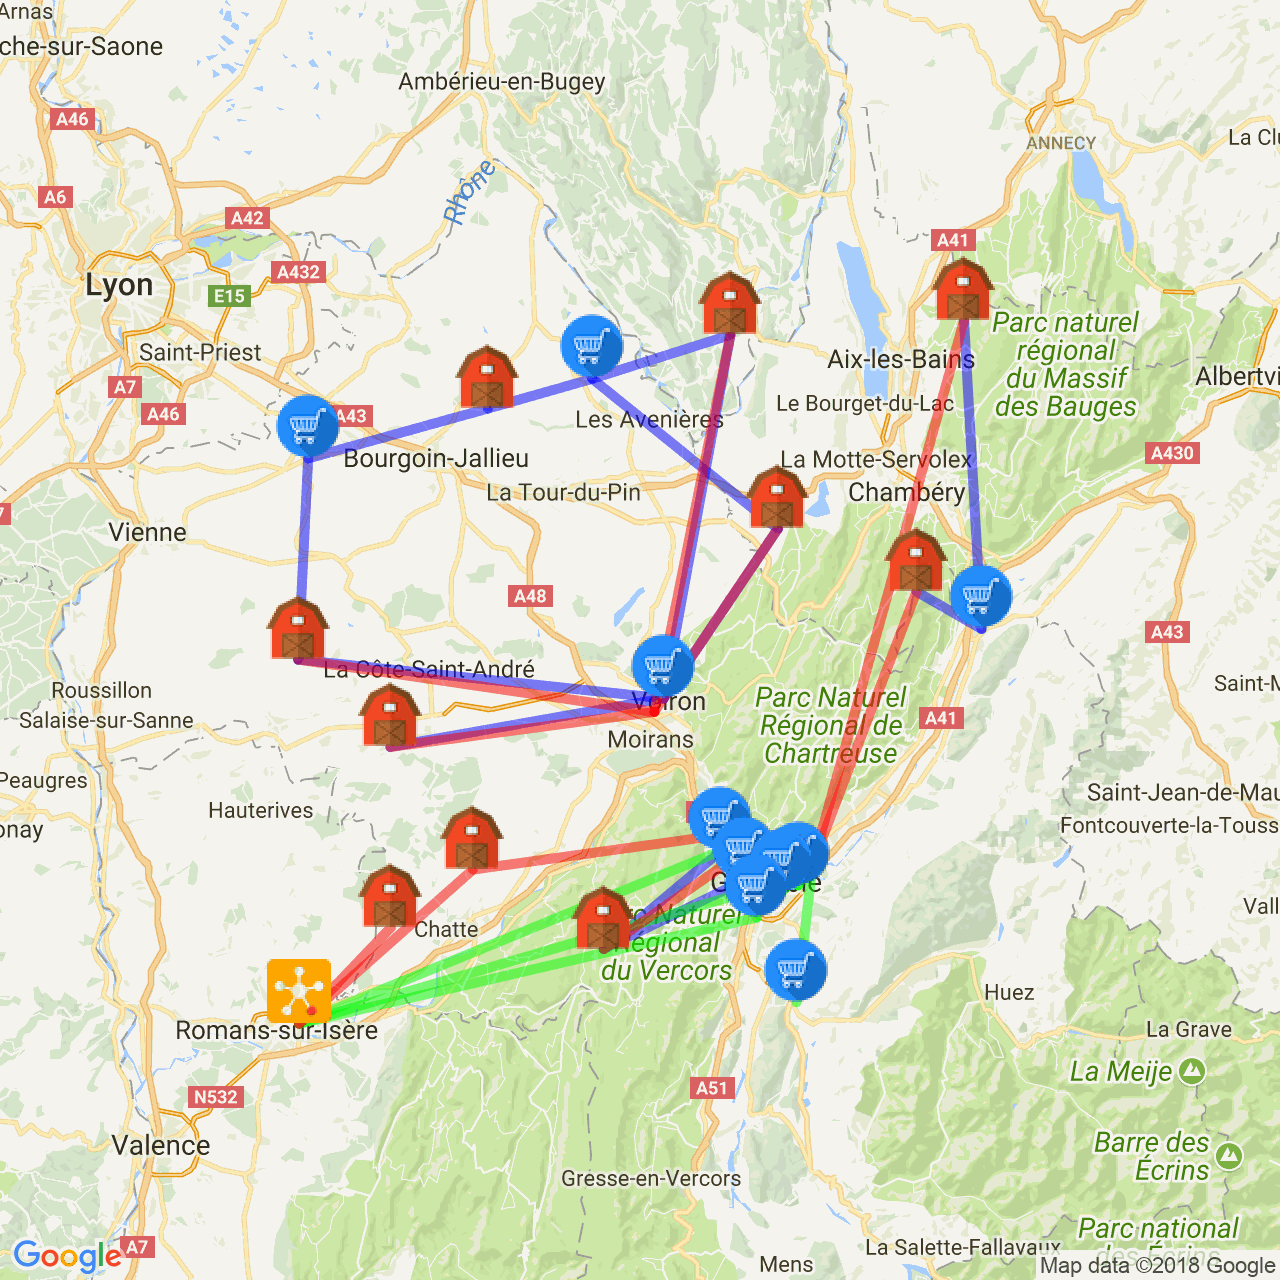
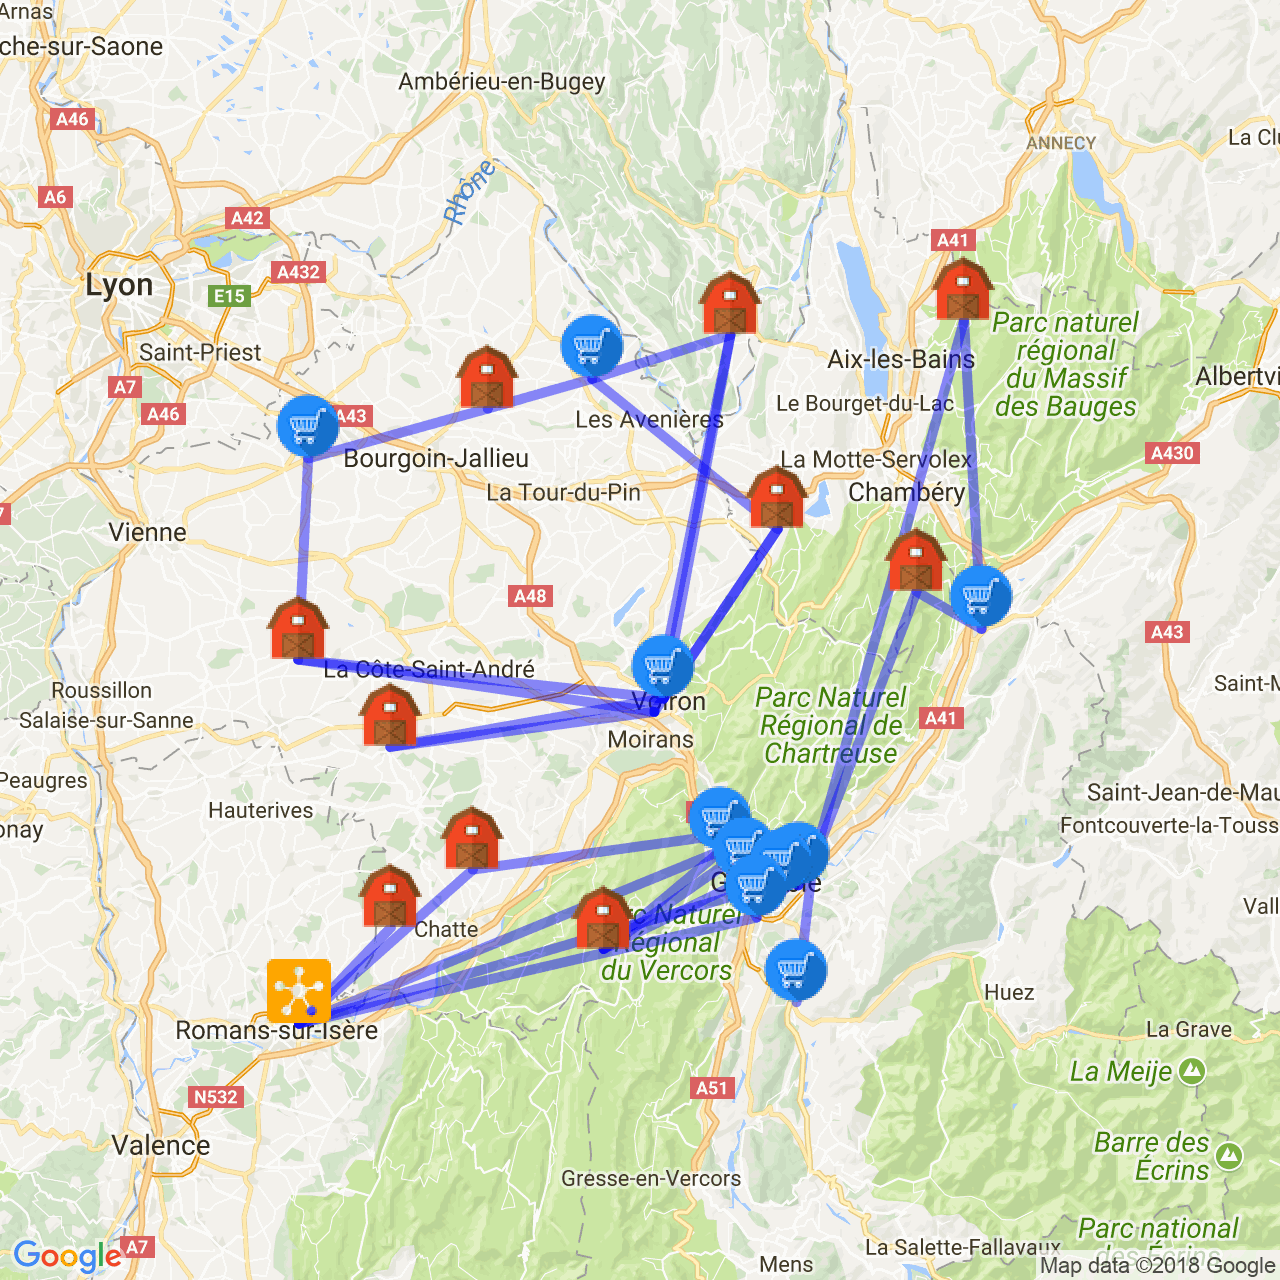
NewDisplay

diff --git a/src/MainTest.java b/src/MainTest.java
@@ -247,23 +247,19 @@ public class MainTest {
         //Ajout des producteurs
         String mapString = "";
         for (int i = 1; i < producers.length; i++) {
-            mapString += "&markers=color:blue%7Clabel:" + i + "%7C" + Double.toString(producers[i].getLongitude()) + "," + Double.toString(producers[i].getLatitude());
+            mapString += "&markers=icon:http://pierret.pro/F.png|" + Double.toString(producers[i].getLongitude()) + "," + Double.toString(producers[i].getLatitude());
         }
         for (int i = 1; i < customers.length; i++) {
-            mapString += "&markers=color:yellow%7Clabel:" + i + "%7C" + Double.toString(customers[i].getLongitude()) + "," + Double.toString(customers[i].getLatitude());
+            mapString += "&markers=icon:http://pierret.pro/C.png|" + Double.toString(customers[i].getLongitude()) + "," + Double.toString(customers[i].getLatitude());
         }
         for (int i = 0; i < chosenHubs.size(); i++) {
-            mapString += "&markers=color:red%7Clabel:" + i + "%7C" + Double.toString(hubs[chosenHubs.get(i)].getLongitude()) + "," + Double.toString(hubs[chosenHubs.get(i)].getLatitude());
+            mapString += "&markers=icon:http://pierret.pro/H.png|" + Double.toString(hubs[chosenHubs.get(i)].getLongitude()) + "," + Double.toString(hubs[chosenHubs.get(i)].getLatitude());
         }
 
         try {
             String latitude = "45.1934574";
             String longitude = "5.7682659";
-            String imageUrl = "https://maps.googleapis.com/maps/api/staticmap?center="
-                    + latitude
-                    + ","
-                    + longitude
-                    + "&zoom=9&size=1024x1024&scale=2&maptype=roadmap"
+            String imageUrl = "https://maps.googleapis.com/maps/api/staticmap?size=4096x4096&scale=2&maptype=roadmap"
                     + mapString
                     + linkTwoPoints(sumMatrix("yPC"), "yPC", "0000ff")
                     + linkTwoPoints(sumMatrix("yHC"), "yHC", "00ff00")
@@ -382,13 +378,13 @@ public class MainTest {
         for (int i = 0; i < matrix.length; i++) {
             for (int j = 0; j < matrix[i].length; j++) {
                 if (matrixType.equals("yPC") && !producers[i].getName().equals("Fiction") && !customers[j].getName().equals("Fiction") && matrix[i][j]!=0) {
-                        result += "&path=color:0x" + hexaColor + "%7Cweight:5%7C" + Double.toString(producers[i].getLongitude()) + "," + Double.toString(producers[i].getLatitude()) + "%7C" + Double.toString(customers[j].getLongitude()) + "," + Double.toString(customers[j].getLatitude());
+                        result += "&path=" + Double.toString(producers[i].getLongitude()) + "," + Double.toString(producers[i].getLatitude()) + "|" + Double.toString(customers[j].getLongitude()) + "," + Double.toString(customers[j].getLatitude());
                 }
                 if (matrixType.equals("yHC") && !customers[i].getName().equals("Fiction") && matrix[i][j]!=0) {
-                        result += "&path=color:0x" + hexaColor + "%7Cweight:5%7C" + Double.toString(hubs[i+1].getLongitude()) + "," + Double.toString(hubs[i+1].getLatitude()) + "%7C" + Double.toString(customers[j].getLongitude()) + "," + Double.toString(customers[j].getLatitude());
+                        result += "&path=" + Double.toString(hubs[i+1].getLongitude()) + "," + Double.toString(hubs[i+1].getLatitude()) + "|" + Double.toString(customers[j].getLongitude()) + "," + Double.toString(customers[j].getLatitude());
                 }
                 if (matrixType.equals("yPH") && !producers[i].getName().equals("Fiction") && matrix[i][j]!=0) {
-                        result += "&path=color:0x" + hexaColor + "%7Cweight:5%7C" + Double.toString(producers[i].getLongitude()) + "," + Double.toString(producers[i].getLatitude()) + "%7C" + Double.toString(hubs[j+1].getLongitude()) + "," + Double.toString(hubs[j+1].getLatitude());
+                        result += "&path=" + Double.toString(producers[i].getLongitude()) + "," + Double.toString(producers[i].getLatitude()) + "|" + Double.toString(hubs[j+1].getLongitude()) + "," + Double.toString(hubs[j+1].getLatitude());
                 }
             }
         }

diff --git a/src/Main.java b/src/Main.java
@@ -258,13 +258,13 @@ public class Main {
         //Ajout des producteurs
         String mapString = "";
         for (int i = 1; i < producers.length; i++) {
-            mapString += "&markers=icon:http://pierret.pro/Farm.png%7C" + Double.toString(producers[i].getLongitude()) + "," + Double.toString(producers[i].getLatitude());
+            mapString += "&markers=icon:http://pierret.pro/F.png%7C" + Double.toString(producers[i].getLongitude()) + "," + Double.toString(producers[i].getLatitude());
         }
         for (int i = 1; i < customers.length; i++) {
-            mapString += "&markers=icon:http://pierret.pro/client.png%7C" + Double.toString(customers[i].getLongitude()) + "," + Double.toString(customers[i].getLatitude());
+            mapString += "&markers=icon:http://pierret.pro/C.png%7C" + Double.toString(customers[i].getLongitude()) + "," + Double.toString(customers[i].getLatitude());
         }
         for (int i = 0; i < chosenHubs.size(); i++) {
-            mapString += "&markers=icon:http://pierret.pro/orange-hub-32.png%7C" + Double.toString(hubs[chosenHubs.get(i)].getLongitude()) + "," + Double.toString(hubs[chosenHubs.get(i)].getLatitude());
+            mapString += "&markers=icon:http://pierret.pro/H.png%7C" + Double.toString(hubs[chosenHubs.get(i)].getLongitude()) + "," + Double.toString(hubs[chosenHubs.get(i)].getLatitude());
         }
 
         try {
@@ -388,13 +388,13 @@ public class Main {
         for (int i = 0; i < matrix.length; i++) {
             for (int j = 0; j < matrix[i].length; j++) {
                 if (matrixType.equals("yPC") && !producers[i].getName().equals("Fiction") && !customers[j].getName().equals("Fiction") && matrix[i][j]!=0) {
-                    result += "&path=color:0x" + hexaColor + "%7Cweight:5%7C" + Double.toString(producers[i].getLongitude()) + "," + Double.toString(producers[i].getLatitude()) + "%7C" + Double.toString(customers[j].getLongitude()) + "," + Double.toString(customers[j].getLatitude());
+                    result += "&path=" + Double.toString(producers[i].getLongitude()) + "," + Double.toString(producers[i].getLatitude()) + "|" + Double.toString(customers[j].getLongitude()) + "," + Double.toString(customers[j].getLatitude());
                 }
                 if (matrixType.equals("yHC") && !customers[i].getName().equals("Fiction") && matrix[i][j]!=0) {
-                    result += "&path=color:0x" + hexaColor + "%7Cweight:5%7C" + Double.toString(hubs[i].getLongitude()) + "," + Double.toString(hubs[i].getLatitude()) + "%7C" + Double.toString(customers[j].getLongitude()) + "," + Double.toString(customers[j].getLatitude());
+                    result += "&path=" + Double.toString(hubs[i].getLongitude()) + "," + Double.toString(hubs[i].getLatitude()) + "|" + Double.toString(customers[j].getLongitude()) + "," + Double.toString(customers[j].getLatitude());
                 }
                 if (matrixType.equals("yPH") && !producers[i].getName().equals("Fiction") && matrix[i][j]!=0) {
-                    result += "&path=color:0x" + hexaColor + "%7Cweight:5%7C" + Double.toString(producers[i].getLongitude()) + "," + Double.toString(producers[i].getLatitude()) + "%7C" + Double.toString(hubs[j].getLongitude()) + "," + Double.toString(hubs[j].getLatitude());
+                    result += "&path=" + Double.toString(producers[i].getLongitude()) + "," + Double.toString(producers[i].getLatitude()) + "|" + Double.toString(hubs[j].getLongitude()) + "," + Double.toString(hubs[j].getLatitude());
                 }
             }
         }
